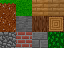
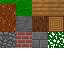
Add leaves transparency

Changed region(s): [[0.75, 0.5, 1.0, 0.75], [0.75, 0.625, 0.7812, 0.6562]]

diff --git a/src/chunk_mesh.cpp b/src/chunk_mesh.cpp
@@ -60,7 +60,7 @@ void ChunkMesh::calc_block_faces(
             }
         }
         else {
-            if (adj_block_type == 0) {
+            if (adj_block_type == 0 || is_transparent(adj_block_type)) {
                 std::array<uint8_t, 4> face_lighting
                     = calc_face_lighting(world_data, chunk_data, chunk_pos, local_pos, dir);
                 FaceData face = create_face_mesh(block_type, local_pos, dir, face_lighting);
@@ -77,38 +77,40 @@ std::optional<ChunkMesh::MeshBuffers> ChunkMesh::create_buffers(
     const ChunkData& chunk_data = world_data.chunk_data_at(chunk_pos);
     for_3d({ 0, 0, 0 }, { 16, 16, 16 }, [&](mve::Vector3i local_pos) {
         uint8_t block = chunk_data.get_block(local_pos);
-        if (chunk_data.block_count() > (8 * 8 * 8)) {
-            if (block != 0) {
-                std::array<bool, 6> directions {};
-                if (local_pos.x == 0) {
-                    directions[static_cast<size_t>(Direction::left)] = true;
-                }
-                if (local_pos.x == 15) {
-                    directions[static_cast<size_t>(Direction::right)] = true;
-                }
-                if (local_pos.y == 0) {
-                    directions[static_cast<size_t>(Direction::front)] = true;
-                }
-                if (local_pos.y == 15) {
-                    directions[static_cast<size_t>(Direction::back)] = true;
-                }
-                if (local_pos.z == 0) {
-                    directions[static_cast<size_t>(Direction::bottom)] = true;
-                }
-                if (local_pos.z == 15) {
-                    directions[static_cast<size_t>(Direction::top)] = true;
-                }
-                calc_block_faces(block, mesh, world_data, chunk_data, chunk_pos, local_pos, false, directions);
-            }
-            if (block == 0) {
-                calc_block_faces(block, mesh, world_data, chunk_data, chunk_pos, local_pos, true);
-            }
+        // TODO: Benchmark if this is necessary
+        //        if (chunk_data.block_count() > (8 * 8 * 8)) {
+        //            if (block != 0) {
+        //                std::array<bool, 6> directions {};
+        //                if (local_pos.x == 0) {
+        //                    directions[static_cast<size_t>(Direction::left)] = true;
+        //                }
+        //                if (local_pos.x == 15) {
+        //                    directions[static_cast<size_t>(Direction::right)] = true;
+        //                }
+        //                if (local_pos.y == 0) {
+        //                    directions[static_cast<size_t>(Direction::front)] = true;
+        //                }
+        //                if (local_pos.y == 15) {
+        //                    directions[static_cast<size_t>(Direction::back)] = true;
+        //                }
+        //                if (local_pos.z == 0) {
+        //                    directions[static_cast<size_t>(Direction::bottom)] = true;
+        //                }
+        //                if (local_pos.z == 15) {
+        //                    directions[static_cast<size_t>(Direction::top)] = true;
+        //                }
+        //                calc_block_faces(block, mesh, world_data, chunk_data, chunk_pos, local_pos, false,
+        //                directions);
+        //            }
+        //            if (block == 0) {
+        //                calc_block_faces(block, mesh, world_data, chunk_data, chunk_pos, local_pos, true);
+        //            }
+        //        }
+        //        else {
+        if (block != 0) {
+            calc_block_faces(block, mesh, world_data, chunk_data, chunk_pos, local_pos, false);
         }
-        else {
-            if (block != 0) {
-                calc_block_faces(block, mesh, world_data, chunk_data, chunk_pos, local_pos, false);
-            }
-        }
+        //        }
     });
     //
     //    if (empty) {

diff --git a/src/common.hpp b/src/common.hpp
@@ -263,3 +263,13 @@ inline mve::Vector2i block_uv(uint8_t block_type, Direction face)
         return { 0, 0 };
     }
 }
+
+inline bool is_transparent(uint8_t block_type)
+{
+    switch (block_type) {
+    case 9:
+        return true;
+    default:
+        return false;
+    }
+}
